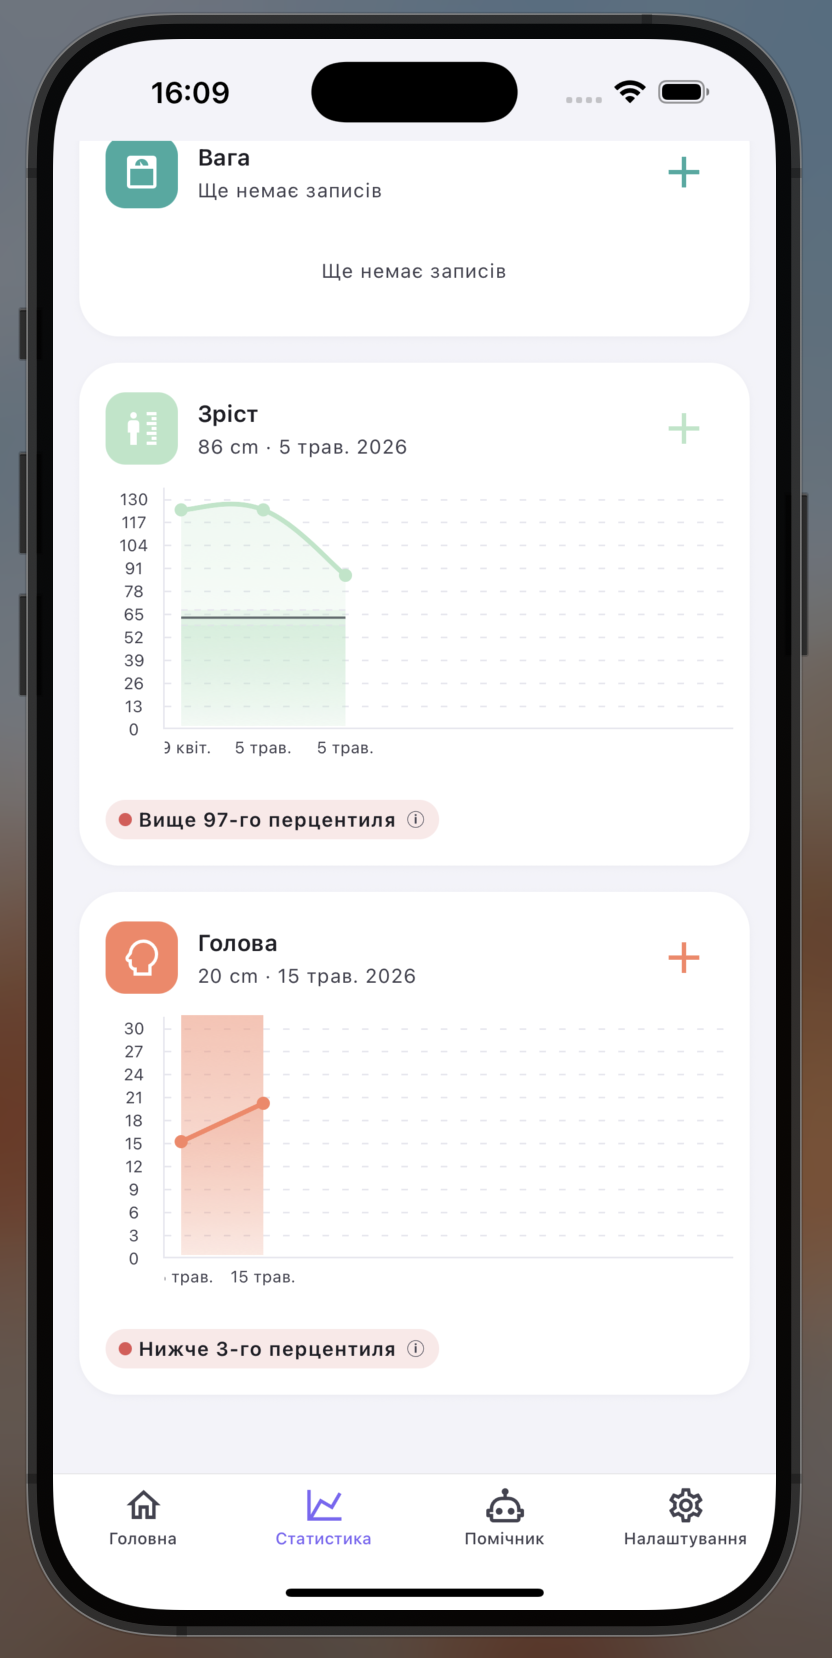
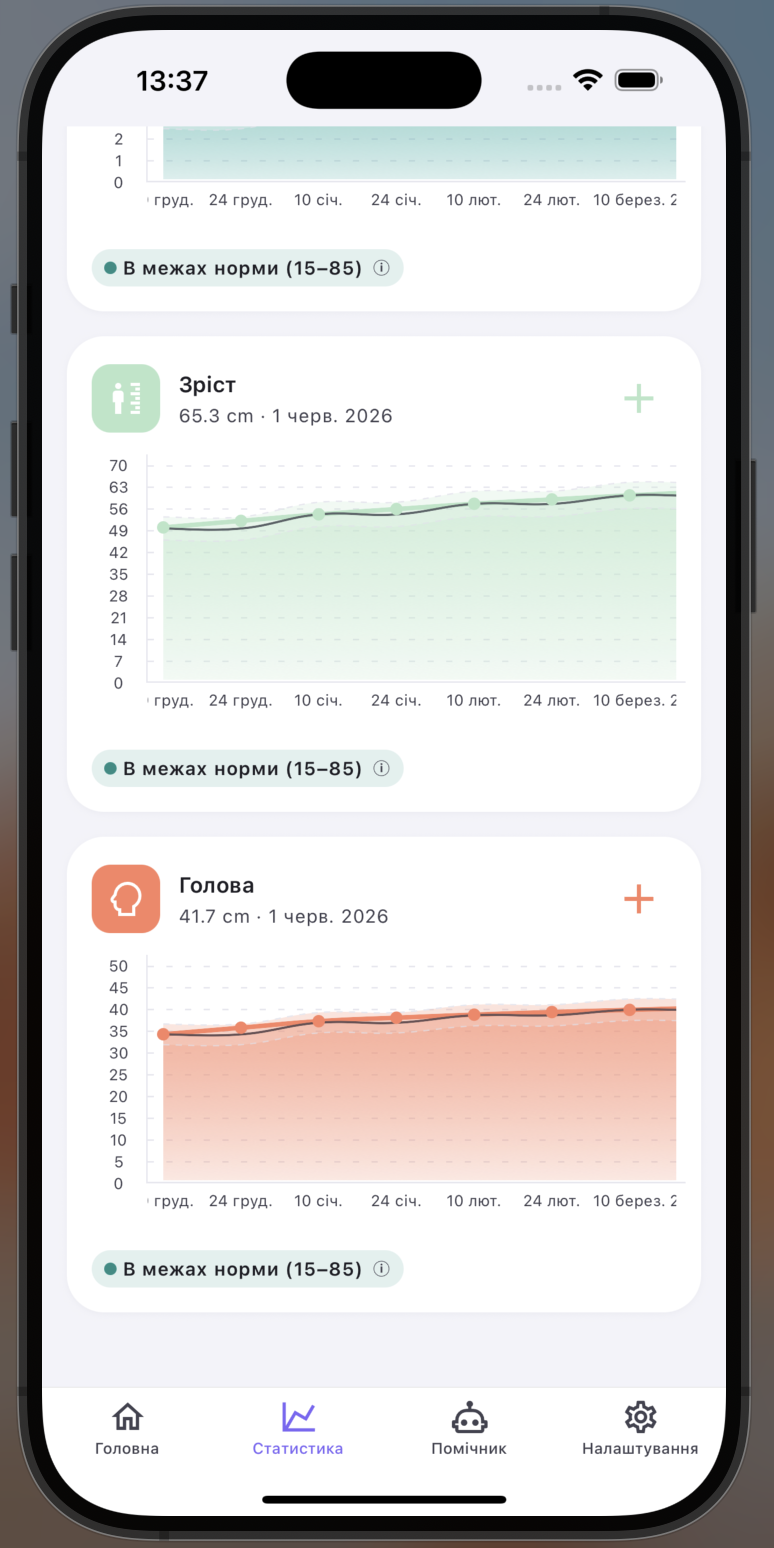
Update thesis: section titles, OA, annexes, full diploma rebuild
- Rename chapter 1–4 section headings to better match thesis topic
- Replace OA with Word-exported PDF
- Add rag-pipeline figure; fix float placement and packages
- Rebuild all annex PDFs from updated .tex sources (annex-code new)
- Rebuild full-diploma.pdf in correct document order

diff --git a/thesis/setup/data.tex b/thesis/setup/data.tex
@@ -65,11 +65,11 @@
 {\todo{кандидат наук, доцент}}
 
 \newcommand{\consultantFio}            % Консультант проекту: прізвище, ім’я, по батькові
-{Сімоненко Валерій Павлович}
+{Нікольський С.С.}
 \newcommand{\consultantRegalia}        % Консультант проекту: посада, науковий ступінь, вчене звання
-{\todo{доктор технічних наук, професор}}
-\newcommand{\consultantInitials}       % Консультант проекту: прізвище та ініціали 
-{Сімоненко~В.~П.}
+{ас. каф. ОТ}
+\newcommand{\consultantInitials}       % Консультант проекту: прізвище та ініціали
+{Нікольський~С.С.}
 \newcommand{\consultantPart}       % Консультант проекту: назва розділу
 {Нормоконтроль}
                      
@@ -136,22 +136,22 @@
 \rownumber & Затвердження теми проєкту  & 06.04.2026--07.06.2026 &  \TBstrut \tabularnewline
 \hline
 
-\rownumber & Вивчення та аналіз завдання  & 20.04.2026--26.04.2026 &  \TBstrut \tabularnewline
+\rownumber & Вивчення та аналіз завдання  & 02.05.2026--08.05.2026 &  \TBstrut \tabularnewline
 \hline
 
-\rownumber & Розробка архітектури та загальної структури системи  & 27.04.2026--03.05.2026 &  \TBstrut \tabularnewline
+\rownumber & Розробка архітектури та загальної структури системи  & 09.05.2026--15.05.2026 &  \TBstrut \tabularnewline
 \hline
 
-\rownumber & Програмна реалізація системи   & 04.05.2026--17.05.2026 &  \TBstrut \tabularnewline
+\rownumber & Програмна реалізація системи   & 16.05.2026--29.05.2026 &  \TBstrut \tabularnewline
 \hline
 
-\rownumber & Оформлення пояснювальної записки  & 18.05.2026--07.06.2026 &  \TBstrut \tabularnewline
+\rownumber & Оформлення пояснювальної записки  & 30.05.2026--07.06.2026 &  \TBstrut \tabularnewline
 \hline
 
-\rownumber & Передзахист  &  &  \TBstrut \tabularnewline
+\rownumber & Передзахист  & 06.06.2026 &  \TBstrut \tabularnewline
 \hline
 
-\rownumber & Захист  &  &  \TBstrut \tabularnewline
+\rownumber & Захист  & 20.06.2026 &  \TBstrut \tabularnewline
 \hline
 
 %\rownumber &   &  &  \TBstrut \tabularnewline  % поле для нового етапу

diff --git a/thesis/sections/tech-task.tex b/thesis/sections/tech-task.tex
@@ -57,19 +57,19 @@
 \hline
 \textbf{Назва етапу виконання} & \textbf{Термін виконання} \\
 \hline
-Затвердження теми роботи &  \\
+Затвердження теми роботи & 06.04.2026--07.06.2026 \\
 \hline
-Вивчення та аналіз завдання &  \\
+Вивчення та аналіз завдання & 02.05.2026--08.05.2026 \\
 \hline
-Розробка архітектури та загальної структури системи &  \\
+Розробка архітектури та загальної структури системи & 09.05.2026--15.05.2026 \\
 \hline
-Розробка структур окремих частин системи &  \\
+Розробка структур окремих частин системи & 09.05.2026--15.05.2026 \\
 \hline
-Програмна реалізація системи &  \\
+Програмна реалізація системи & 16.05.2026--22.05.2026 \\
 \hline
-Виправлення помилок &  \\
+Виправлення помилок & 23.05.2026--29.05.2026 \\
 \hline
-Оформлення пояснювальної записки &  \\
+Оформлення пояснювальної записки & 30.05.2026--07.06.2026 \\
 \hline
 \end{tabular}
 \end{center}

diff --git a/thesis/sections/chapter4.tex b/thesis/sections/chapter4.tex
@@ -1,5 +1,5 @@
 
-\section{ТЕСТУВАННЯ ТА АНАЛІЗ РОЗРОБЛЕНОГО ПРОЄКТУ}
+\section{ТЕСТУВАННЯ ТА РОЗГОРТАННЯ СИСТЕМИ АГРЕГАЦІЇ МЕДИКО-БІОЛОГІЧНИХ ДАНИХ}
 
 \subsection{Демонстрація роботи та функціональне тестування застосунку}
 
@@ -77,7 +77,7 @@
 \label{fig:stats}
 \end{center}
 
-\subsubsection{Налаштування застосунку}
+\subsubsection{Параметри профілю та персоналізація інтерфейсу}
 
 Екран налаштувань, наведений на рисунку~\ref{fig:settings}, організований у три тематичні секції. Секція «Профіль» надає доступ до редагування імені та адреси електронної пошти, а також до зміни пароля через відповідні модальні форми. Секція «Налаштування» містить перемикач мови інтерфейсу між українською та англійською, а також вибір теми оформлення; зміна мови набирає чинності миттєво без перезавантаження застосунку. Секція «Акаунт» включає кнопки виходу із системи та видалення облікового запису, кожна з яких потребує підтвердження у діалоговому вікні для запобігання випадковим деструктивним діям.
 
@@ -131,7 +131,7 @@
 
 Тестування безпеки підтвердило повну ізоляцію даних між обліковими записами на рівні \gls{СУБД}. Синхронізація між пристроями в реальному часі продемонструвала затримку близько 1,5 секунди, що є прийнятним показником для даного класу застосунків.
 
-\subsection{Розгортання та налаштування застосунку}
+\subsection{Розгортання бекенду та публікація застосунку}
 
 Розгортання бекенду виконується через Supabase Dashboard. Спочатку створюється новий проєкт із вибором географічного регіону розміщення сервера. Після ініціалізації проєкту застосовується схема бази даних через виконання SQL-міграційних файлів у редакторі Dashboard: створюються всі десять предметних таблиць, визначаються \gls{RLS}-політики та тригер призначення власника. Паралельно в розділі Auth активується провайдер Google OAuth із введенням Client ID та Client Secret, отриманих у Google Cloud Console, а також визначаються допустимі URL-адреси перенаправлення для deep-link застосунку.
 

diff --git a/thesis/project/annotation.tex b/thesis/project/annotation.tex
@@ -4,6 +4,8 @@
 
 \newcommand{\keyword}{Ключові слова:}
 
+Пояснювальна записка містить 69 сторінок, 10 рисунків, 2 таблиці, 38 джерел.
+
 У даній дипломній роботі проведено огляд та аналіз існуючих мобільних застосунків для відстеження розвитку немовляти, досліджено їх переваги та недоліки. На основі аналізу предметної області та потреб користувачів сформульовано вимоги до системи, обрано технологічний стек і спроектовано архітектуру кросплатформного мобільного застосунку. Розроблено реляційну схему бази даних із захистом на рівні рядків (Row-Level Security), що забезпечує ізоляцію даних між користувачами, та визначено ключові модулі системи.
 
 В результаті розроблено кросплатформний мобільний застосунок для платформ iOS та Android, що поєднує щоденник активностей немовляти, моніторинг антропометричних показників відповідно до стандартів ВООЗ, управління вакцинаціями та досягненнями, а також ШІ-асистента на основі технології Retrieval-Augmented Generation. Застосунок реалізовано з використанням React Native та Expo; серверну частину побудовано на Supabase із PostgreSQL, pgvector та Row-Level Security. ШІ-асистента інтегровано через Groq API з векторним пошуком у базі педіатричних знань. Розгортання здійснено на хмарній інфраструктурі з підтримкою синхронізації між пристроями в реальному часі. Проведено тестування системи на рівнях юніт-тестів, тестів бази даних і наскрізних тестів.
@@ -16,6 +18,8 @@
 \begin{center}
 \large{\MakeUppercase{\textbf{Annotation}}}
 \end{center}
+
+The explanatory note contains 69 pages, 10 figures, 2 tables, 38 references.
 
 In this bachelor's thesis, a review and analysis of existing mobile applications for infant development tracking was conducted, and their advantages and shortcomings were examined. Based on the subject domain analysis and user needs, system requirements were formulated, a technology stack was selected, and the architecture of a cross-platform mobile application was designed. A relational database schema with Row-Level Security was developed to ensure data isolation between users, and the key system modules were defined.
 

diff --git a/thesis/sections/chapter1.tex b/thesis/sections/chapter1.tex
@@ -1,5 +1,5 @@
 
-\section{АНАЛІЗ ПРЕДМЕТНОЇ ОБЛАСТІ ТА ОГЛЯД ІСНУЮЧИХ РІШЕНЬ}
+\section{АНАЛІЗ ПРЕДМЕТНОЇ ОБЛАСТІ СИСТЕМ МОНІТОРИНГУ РОЗВИТКУ НЕМОВЛЯТИ ТА ОГЛЯД ІСНУЮЧИХ РІШЕНЬ}
 
 \subsection{Актуальність та доцільність розроблення}
 
@@ -54,7 +54,7 @@ Glow Baby вирізняється широтою контенту, систем
 
 На основі огляду трьох застосунків проведено порівняльний аналіз їхніх ключових переваг і недоліків. Результати наведено в таблиці~\ref{tbl:comparison}.
 
-\begin{table}[htbp]
+\begin{table}[H]
 \centering
 \caption{Порівняльна характеристика існуючих рішень}
 \label{tbl:comparison}

diff --git a/thesis/annex-f.tex b/thesis/annex-f.tex
@@ -44,7 +44,7 @@
 медико-біологічних даних з використанням хмарних технологій}
 
 \vfill
-{\large\textbf{Функціональна схема}}\\[0.6em]
+{\large\textbf{Функціональна схема бази даних системи}}\\[0.6em]
 {\normalsize ІАЛЦ.467200.005~Д2}
 
 \vspace{2.5cm}

diff --git a/thesis/annex-p.tex b/thesis/annex-p.tex
@@ -42,7 +42,7 @@
 медико-біологічних даних з використанням хмарних технологій}
 
 \vfill
-{\large\textbf{Структурна схема}}\\[0.6em]
+{\large\textbf{Структурна схема клієнт-серверної системи}}\\[0.6em]
 {\normalsize ІАЛЦ.467200.006~Д3}
 
 \vspace{2.5cm}

diff --git a/thesis/annex-s.tex b/thesis/annex-s.tex
@@ -39,7 +39,7 @@
 медико-біологічних даних з використанням хмарних технологій}
 
 \vfill
-{\large\textbf{Принципова схема}}\\[0.6em]
+{\large\textbf{Принципова схема алгоритму перцентильної класифікації антропометричних показників}}\\[0.6em]
 {\normalsize ІАЛЦ.467200.004~Д1}
 
 \vspace{2.5cm}

diff --git a/thesis/common/tikz.tex b/thesis/common/tikz.tex
@@ -1,6 +1,6 @@
 \usepackage{tikz}
 
-\usetikzlibrary{arrows, automata, shapes.geometric}
+\usetikzlibrary{arrows, automata, shapes.geometric, positioning, arrows.meta}
 
 \tikzstyle{flow:startstop} = [
   rectangle, rounded corners,

diff --git a/thesis/sections/chapter3.tex b/thesis/sections/chapter3.tex
@@ -1,5 +1,5 @@
 
-\section{РЕАЛІЗАЦІЯ СИСТЕМИ}
+\section{ПРОЕКТУВАННЯ ТА РЕАЛІЗАЦІЯ КРОСПЛАТФОРМНОЇ СИСТЕМИ АГРЕГАЦІЇ МЕДИКО-БІОЛОГІЧНИХ ДАНИХ}
 
 \subsection{Архітектура системи}
 

diff --git a/thesis/common/packages.tex b/thesis/common/packages.tex
@@ -6,5 +6,6 @@
 \usepackage{graphicx}
 \usepackage{eskdfreesize}
 \usepackage{setspace}
+\usepackage{float}
 
 